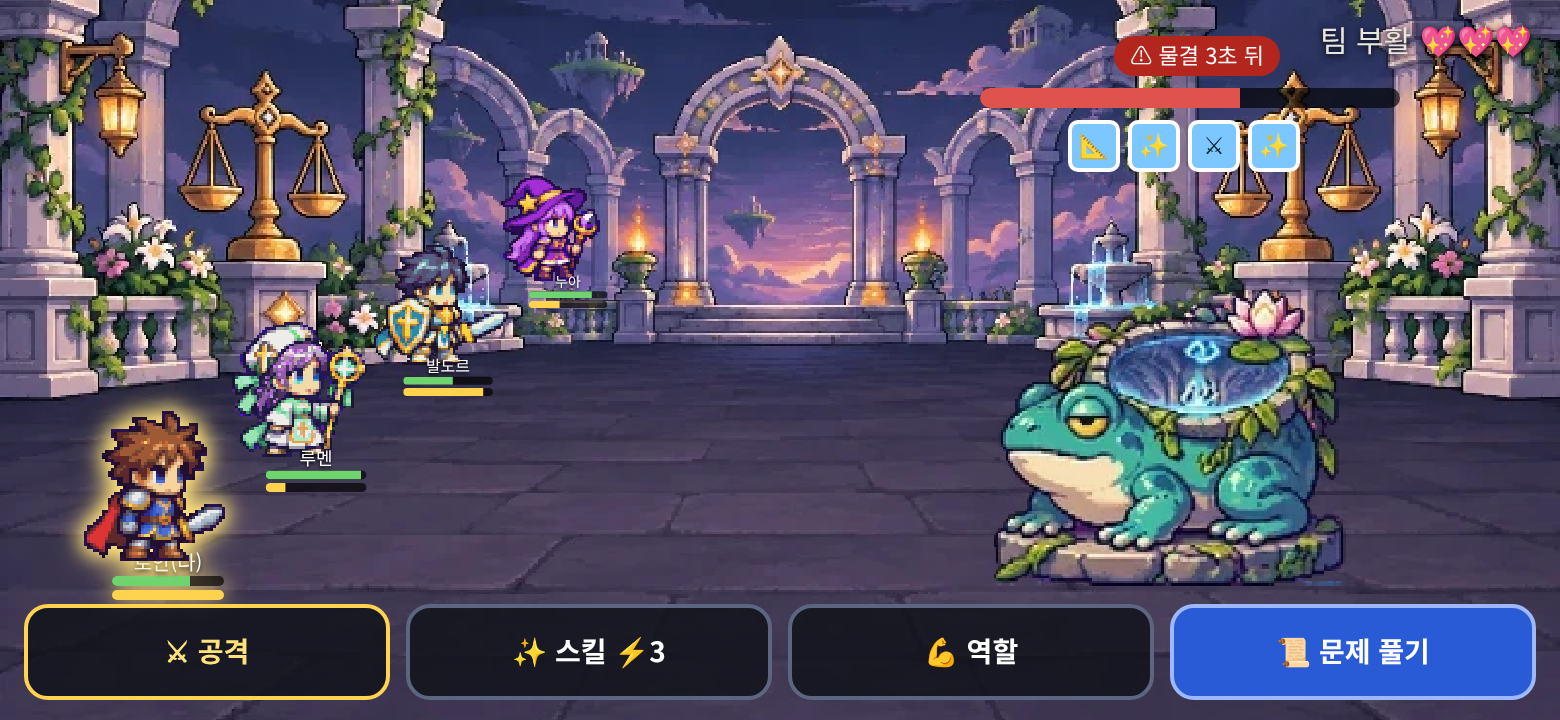
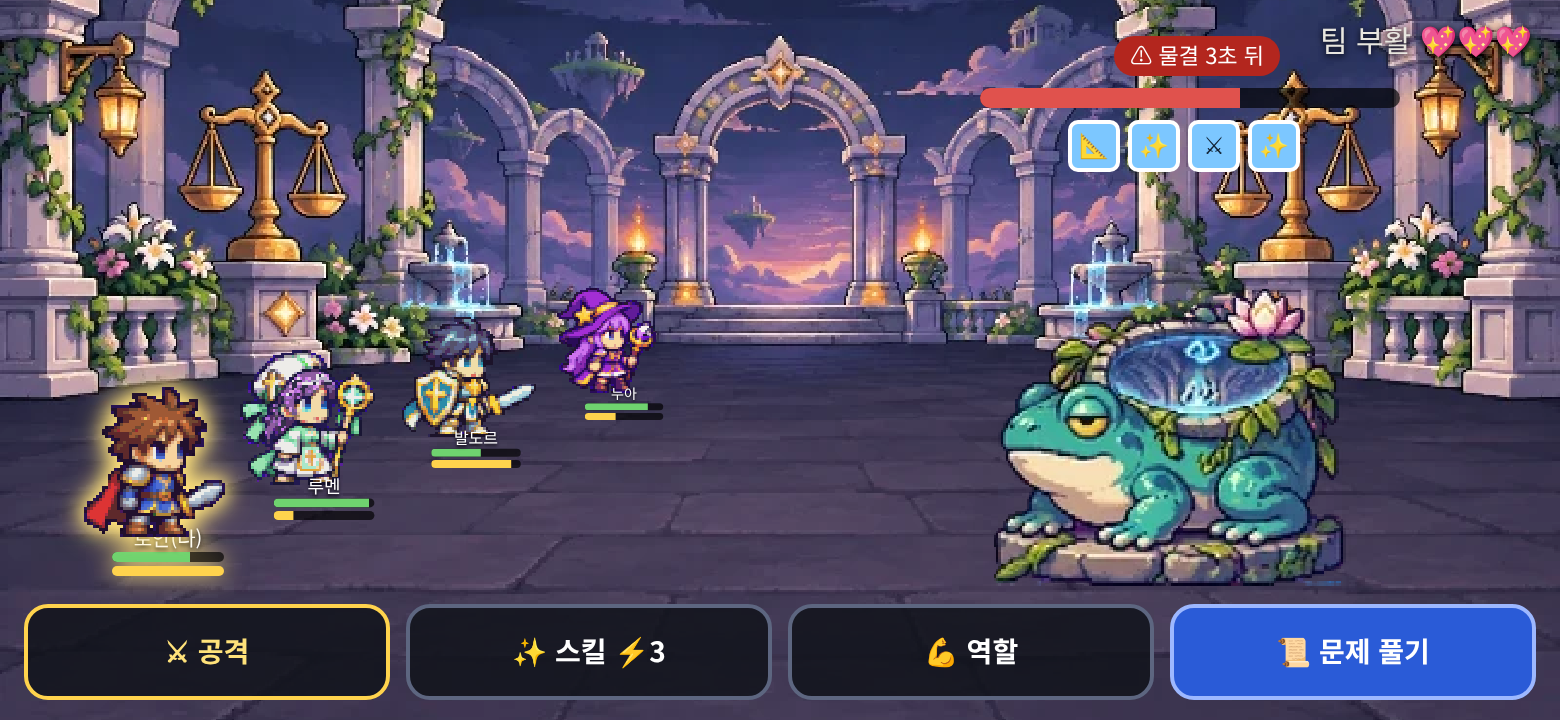
설계: 게시판 던전 화면 — 용사 발은 모두 바닥 위(참고 그림·주문문 고침)
Claude-Session: https://claude.ai/code/session_014JJv1gNxiR4EbqPvhG9Ym8

Changed region(s): [[0.0308, 0.2444, 0.4308, 0.8556]]

diff --git a/docs/handoff/design/board-atb/mock/real-wide.html b/docs/handoff/design/board-atb/mock/real-wide.html
@@ -33,7 +33,7 @@ body{padding:0;background:#000}.ph{border:0;border-radius:0;background:url(s-bg.
 .h .bar{margin:2px 20px 0}.mon{font-size:0}.mon img{image-rendering:pixelated}
 .me img{filter:drop-shadow(0 0 5px #ffe27a)}
 </style><div class="ph"><div class="life" style="text-shadow:0 1px 3px #000">팀 부활 💖💖💖</div>
-<div class="h" style="left:236px;top:40px;transform:scale(0.7);transform-origin:50% 100%"><img src="s-math.png"><i>누아</i><div class="bar hp"><b style="width:80%"></b></div><div class="bar at"><b style="width:40%"></b></div></div><div class="h" style="left:176px;top:84px;transform:scale(0.8);transform-origin:50% 100%"><img src="s-paladin.png"><i>발도르</i><div class="bar hp"><b style="width:55%"></b></div><div class="bar at"><b style="width:90%"></b></div></div><div class="h" style="left:110px;top:132px;transform:scale(0.9);transform-origin:50% 100%"><img src="s-priest.png"><i>루멘</i><div class="bar hp"><b style="width:95%"></b></div><div class="bar at"><b style="width:20%"></b></div></div><div class="h me" style="left:36px;top:186px;transform:scale(1.0);transform-origin:50% 100%"><img src="s-sword.png"><i>로안(나)</i><div class="bar hp"><b style="width:70%"></b></div><div class="bar at"><b style="width:100%"></b></div></div>
+<div class="h" style="left:264px;top:96px;transform:scale(0.7);transform-origin:50% 100%"><img src="s-math.png"><i>누아</i><div class="bar hp"><b style="width:80%"></b></div><div class="bar at"><b style="width:40%"></b></div></div><div class="h" style="left:190px;top:120px;transform:scale(0.8);transform-origin:50% 100%"><img src="s-paladin.png"><i>발도르</i><div class="bar hp"><b style="width:55%"></b></div><div class="bar at"><b style="width:90%"></b></div></div><div class="h" style="left:114px;top:146px;transform:scale(0.9);transform-origin:50% 100%"><img src="s-priest.png"><i>루멘</i><div class="bar hp"><b style="width:95%"></b></div><div class="bar at"><b style="width:20%"></b></div></div><div class="h me" style="left:36px;top:174px;transform:scale(1.0);transform-origin:50% 100%"><img src="s-sword.png"><i>로안(나)</i><div class="bar hp"><b style="width:70%"></b></div><div class="bar at"><b style="width:100%"></b></div></div>
 <div class="mon" style="right:70px;top:70px"><img src="s-mon.png" width="230"></div>
 <div class="bhp" style="right:80px;top:44px;width:210px"><b></b></div><div class="sh" style="right:130px;top:60px"><span>📐</span><span>✨</span><span>⚔</span><span>✨</span></div>
 <div class="warn" style="right:140px;top:18px">⚠ 물결 3초 뒤</div>

diff --git a/docs/handoff/design/board-atb/mock/bench-cards.js b/docs/handoff/design/board-atb/mock/bench-cards.js
@@ -2,7 +2,7 @@
 const ATBUI = `UI MOCKUP for a landscape phone game screen (pixel-art RPG "Everyone's Dungeon"). ONE image, 16:9 wide (about 1560x720), shown as a single finished game screenshot.
 Art style: match the attached SCREENSHOT exactly for the world — true pixel art heroes (cute chibi, 2–2.5 heads tall, facing RIGHT), a pixel-art monster facing LEFT, a dark torch-lit pixel-art dungeon background. Keep the same heroes, monster and background as in the attached screenshot.
 What to redesign: ONLY the user interface layer (bars, buttons, panels, icons). Replace the plain flat placeholder UI in the screenshot with a polished pixel-RPG interface: chunky pixel frames with a 1-pixel dark navy outline (#1a1228), warm parchment and dark-bronze panels, gold highlights, readable at phone size, big thumb-friendly buttons. Same positions and sizes as in the attached screenshot unless told otherwise.
-HERO LINE-UP RULE (important): the heroes stand in one diagonal line with clear PERSPECTIVE — the hero nearest the viewer is at the BOTTOM-LEFT and drawn largest (100%), each hero behind stands higher and further right and is drawn smaller (about 90%, 80%, 70% for the farthest). The player's own hero, tagged \"(나)\", is ALWAYS the nearest, bottom, largest one with the golden glow.\nKorean text must be written EXACTLY as given in quotes, in a clean bold pixel-style Korean font; do not invent other text. No watermark, no device frame.`;
+HERO LINE-UP RULE (important): the heroes stand in one diagonal line with clear PERSPECTIVE — the hero nearest the viewer is at the BOTTOM-LEFT and drawn largest (100%), each hero behind stands higher and further right and is drawn smaller (about 90%, 80%, 70% for the farthest). EVERY hero's feet must stand ON the stone floor (below the horizon line where the floor meets the wall, in the lower half of the picture) — never on the wall, railing or sky; keep the line shallow so even the farthest hero is on the floor. The player's own hero, tagged \"(나)\", is ALWAYS the nearest, bottom, largest one with the golden glow.\nKorean text must be written EXACTLY as given in quotes, in a clean bold pixel-style Korean font; do not invent other text. No watermark, no device frame.`;
 const ATBC = [
  ['atb-ui-wide', '① 전투 화면 · 넓게 편 상태', '화면 시안 1장', '게시판 던전 새 판의 기본 전투 화면(문제를 안 열었을 때) — 왼쪽 용사 4명 · 오른쪽 몬스터 · 아래 단추 4개', ['atb-ref-wide.png', 'atb-ref-layout.png'],
 `Screen: BATTLE (wide state).

diff --git a/docs/handoff/design/board-atb/mock/real-quiz.html b/docs/handoff/design/board-atb/mock/real-quiz.html
@@ -33,7 +33,7 @@ body{padding:0;background:#000}.ph{border:0;border-radius:0;background:url(s-bg.
 .h .bar{margin:2px 20px 0}.mon{font-size:0}.mon img{image-rendering:pixelated}
 .me img{filter:drop-shadow(0 0 5px #ffe27a)}
 </style><div class="ph">
-<div class="h" style="left:120px;top:6px;transform:scale(0.7);transform-origin:50% 100%"><img src="s-math.png"><i>누아</i><div class="bar hp"><b style="width:80%"></b></div><div class="bar at"><b style="width:40%"></b></div></div><div class="h" style="left:84px;top:52px;transform:scale(0.8);transform-origin:50% 100%"><img src="s-paladin.png"><i>발도르</i><div class="bar hp"><b style="width:55%"></b></div><div class="bar at"><b style="width:90%"></b></div></div><div class="h" style="left:44px;top:102px;transform:scale(0.9);transform-origin:50% 100%"><img src="s-priest.png"><i>루멘</i><div class="bar hp"><b style="width:95%"></b></div><div class="bar at"><b style="width:20%"></b></div></div><div class="h me" style="left:0px;top:156px;transform:scale(1.0);transform-origin:50% 100%"><img src="s-sword.png"><i>로안(나)</i><div class="bar hp"><b style="width:70%"></b></div><div class="bar at"><b style="width:100%"></b></div></div>
+<div class="h" style="left:112px;top:96px;transform:scale(0.7);transform-origin:50% 100%"><img src="s-math.png"><i>누아</i><div class="bar hp"><b style="width:80%"></b></div><div class="bar at"><b style="width:40%"></b></div></div><div class="h" style="left:76px;top:120px;transform:scale(0.8);transform-origin:50% 100%"><img src="s-paladin.png"><i>발도르</i><div class="bar hp"><b style="width:55%"></b></div><div class="bar at"><b style="width:90%"></b></div></div><div class="h" style="left:38px;top:146px;transform:scale(0.9);transform-origin:50% 100%"><img src="s-priest.png"><i>루멘</i><div class="bar hp"><b style="width:95%"></b></div><div class="bar at"><b style="width:20%"></b></div></div><div class="h me" style="left:0px;top:174px;transform:scale(1.0);transform-origin:50% 100%"><img src="s-sword.png"><i>로안(나)</i><div class="bar hp"><b style="width:70%"></b></div><div class="bar at"><b style="width:100%"></b></div></div>
 <div class="mon" style="left:168px;top:84px"><img src="s-mon.png" width="190"></div>
 <div class="bhp" style="left:190px;top:62px;width:150px"><b></b></div><div class="sh" style="left:204px;top:76px"><span>📐</span><span>✨</span><span>⚔</span><span>✨</span></div>
 <div class="warn" style="left:214px;top:38px">⚠ 물결 3초 뒤</div>

diff --git a/docs/handoff/design/board-atb/결정.md b/docs/handoff/design/board-atb/결정.md
@@ -163,3 +163,4 @@
 - **내 용사 = 항상 맨 아래 · 가장 가까운 자리(가장 크게)** · 폰마다 자기 용사가 그 자리에 섬(친구 폰에서는 친구가 그 자리) · 나머지 순서 = 방에 들어온 차례.
 - 자리는 보이는 모양일 뿐 수치 · 맞을 확률에 영향 없음(8절 그대로).
 - 참고 그림 = mock/atb-ref-wide.png · atb-ref-quiz.png (고침) · GPT 시안 = mock/gpt/ (README 에 고칠 곳).
+- (덧 · 같은 날) 선생님 「용사들 땅 위에 서게는 해 줘야지」 → **모든 용사의 발은 바닥(지평선 아래) 위** · 줄을 얕게 눕혀 맨 뒤 용사도 바닥에 섬 · 참고 그림 · 주문문 고침(작업대 v25).
